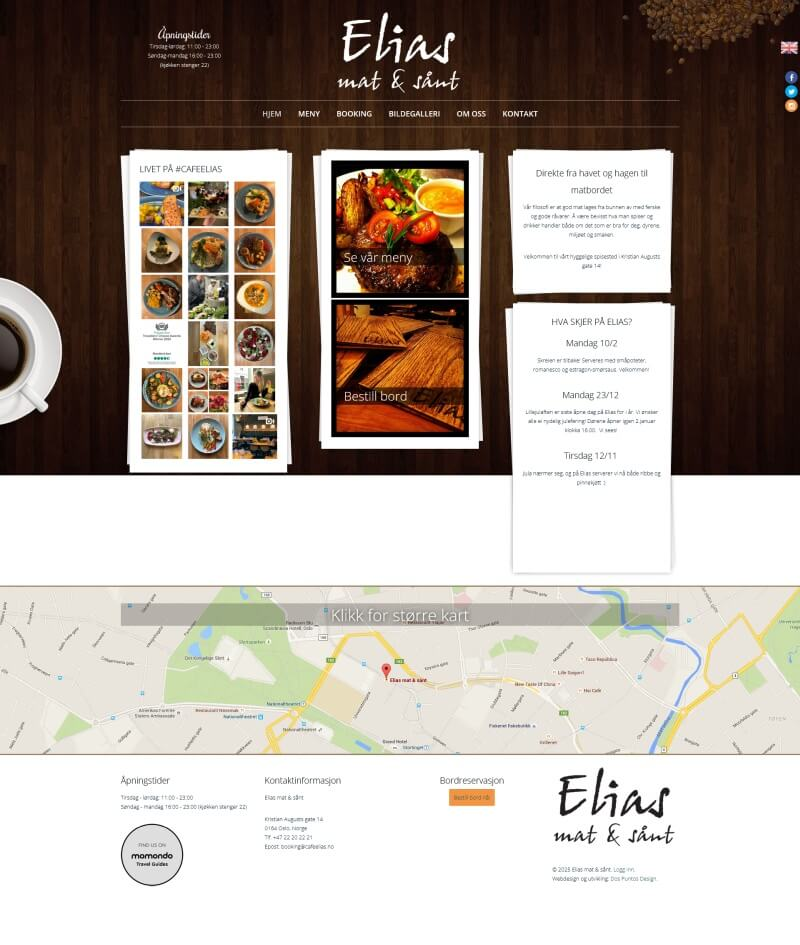
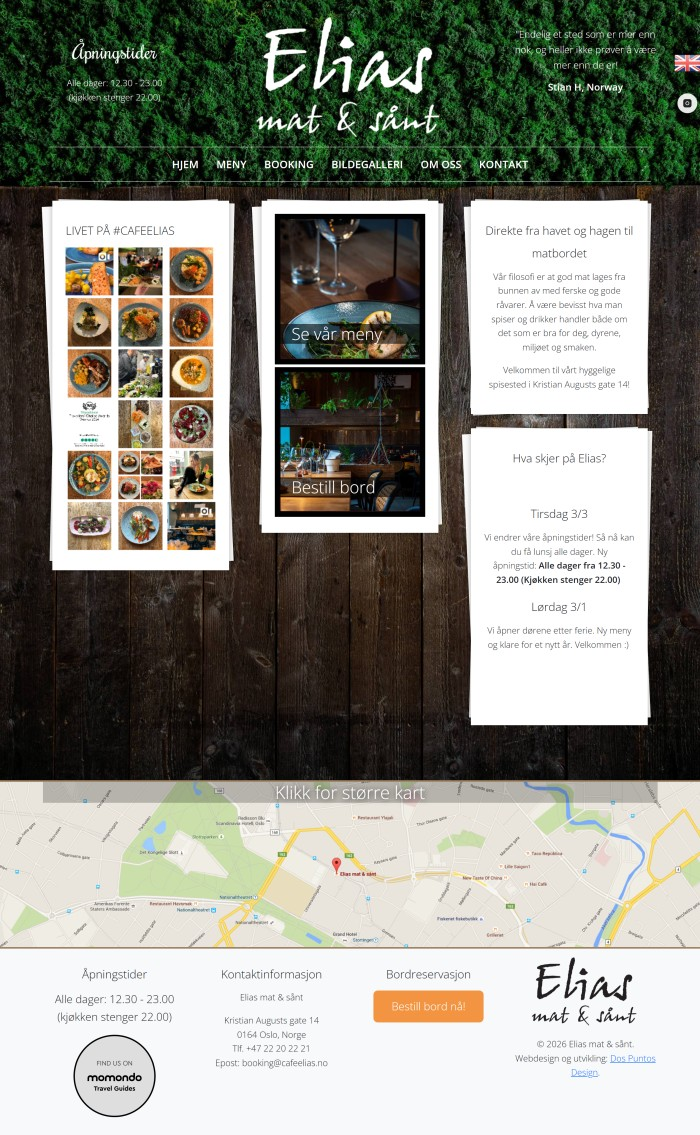
New portfolio items and support for status

diff --git a/src/components/portfolio/Thumbnail.jsx b/src/components/portfolio/Thumbnail.jsx
@@ -33,7 +33,14 @@ export default function Thumbnail(props) {
         </ul>
       </div>
       <div className="description">
-        <h3>{props.title}</h3>
+        <h3>
+          {props.title}
+          {props.status && props.status !== "active" && (
+            <span className="status">
+              {t("STATUS_" + props.status.toUpperCase())}
+            </span>
+          )}
+        </h3>
         <h4>{props.category}</h4>
         <p>{props.description}</p>
         {props.link && (
@@ -52,6 +59,9 @@ export default function Thumbnail(props) {
       <Modal open={open} onClose={(e) => setOpen(false)} center>
         <h1 style={{ textAlign: "center" }}>{props.client}</h1>
         <img src={"img/portfolio/" + props.imageFull} alt="" />
+        {props.status && props.status !== "active" && props.statusNote && (
+          <p className="status-note">{props.statusNote}</p>
+        )}
         {props.link !== "#" && (
           <a
             className="pure-button"

diff --git a/src/components/portfolio/thumbnail.scss b/src/components/portfolio/thumbnail.scss
@@ -92,6 +92,7 @@
     }
 
     .tags {
+      margin: 10px;
       li {
         margin-right: 2px;
 
@@ -126,6 +127,21 @@
       line-height: 1;
       margin: 0;
       font-size: 1.7rem;
+      display: flex;
+      align-items: center;
+      gap: 0.6rem;
+      .status {
+        font-size: 0.45em;
+        font-weight: 500;
+        line-height: 1;
+        letter-spacing: 0.03em;
+        text-transform: uppercase;
+        background: #eee;
+        color: #666;
+        padding: 0.4em 0.65em;
+        border-radius: 3px;
+        vertical-align: middle;
+      }
     }
 
     h4 {
@@ -153,7 +169,9 @@
           margin-left: -10px;
           opacity: 0;
           vertical-align: middle;
-          transition: margin 0.3s, opacity 0.3s;
+          transition:
+            margin 0.3s,
+            opacity 0.3s;
         }
 
         &:hover:after {

diff --git a/src/components/content/PrivacyEn.jsx b/src/components/content/PrivacyEn.jsx
@@ -402,7 +402,7 @@ const PrivacyEn = () => {
         </strong>
       </h3>
       <p>
-        We use email and telephone as part of our daily work Relevant
+        We use email and telephone as part of our daily work. Relevant
         information that arises from telephone conversations and email exchanges
         that occur as part of customer processing is registered in the customer
         system.

diff --git a/src/components/portfolio/Projects.jsx b/src/components/portfolio/Projects.jsx
@@ -26,6 +26,8 @@ export default function Projects({ isLoading, projects }) {
             alt={altLayout}
             tags={project.tags}
             category={project.category}
+            status={project.status}
+            statusNote={project.statusNote}
           />
         );
       })}

diff --git a/src/App.scss b/src/App.scss
@@ -259,3 +259,13 @@ ul.social-links {
   list-style: none;
   margin-bottom: 10px;
 }
+
+.status-note {
+  margin: 1rem 0;
+  padding: 0.75rem 1rem;
+  border-left: 3px solid #ccc;
+  background: #f7f7f7;
+  color: #666;
+  font-size: 0.9rem;
+  font-style: italic;
+}
